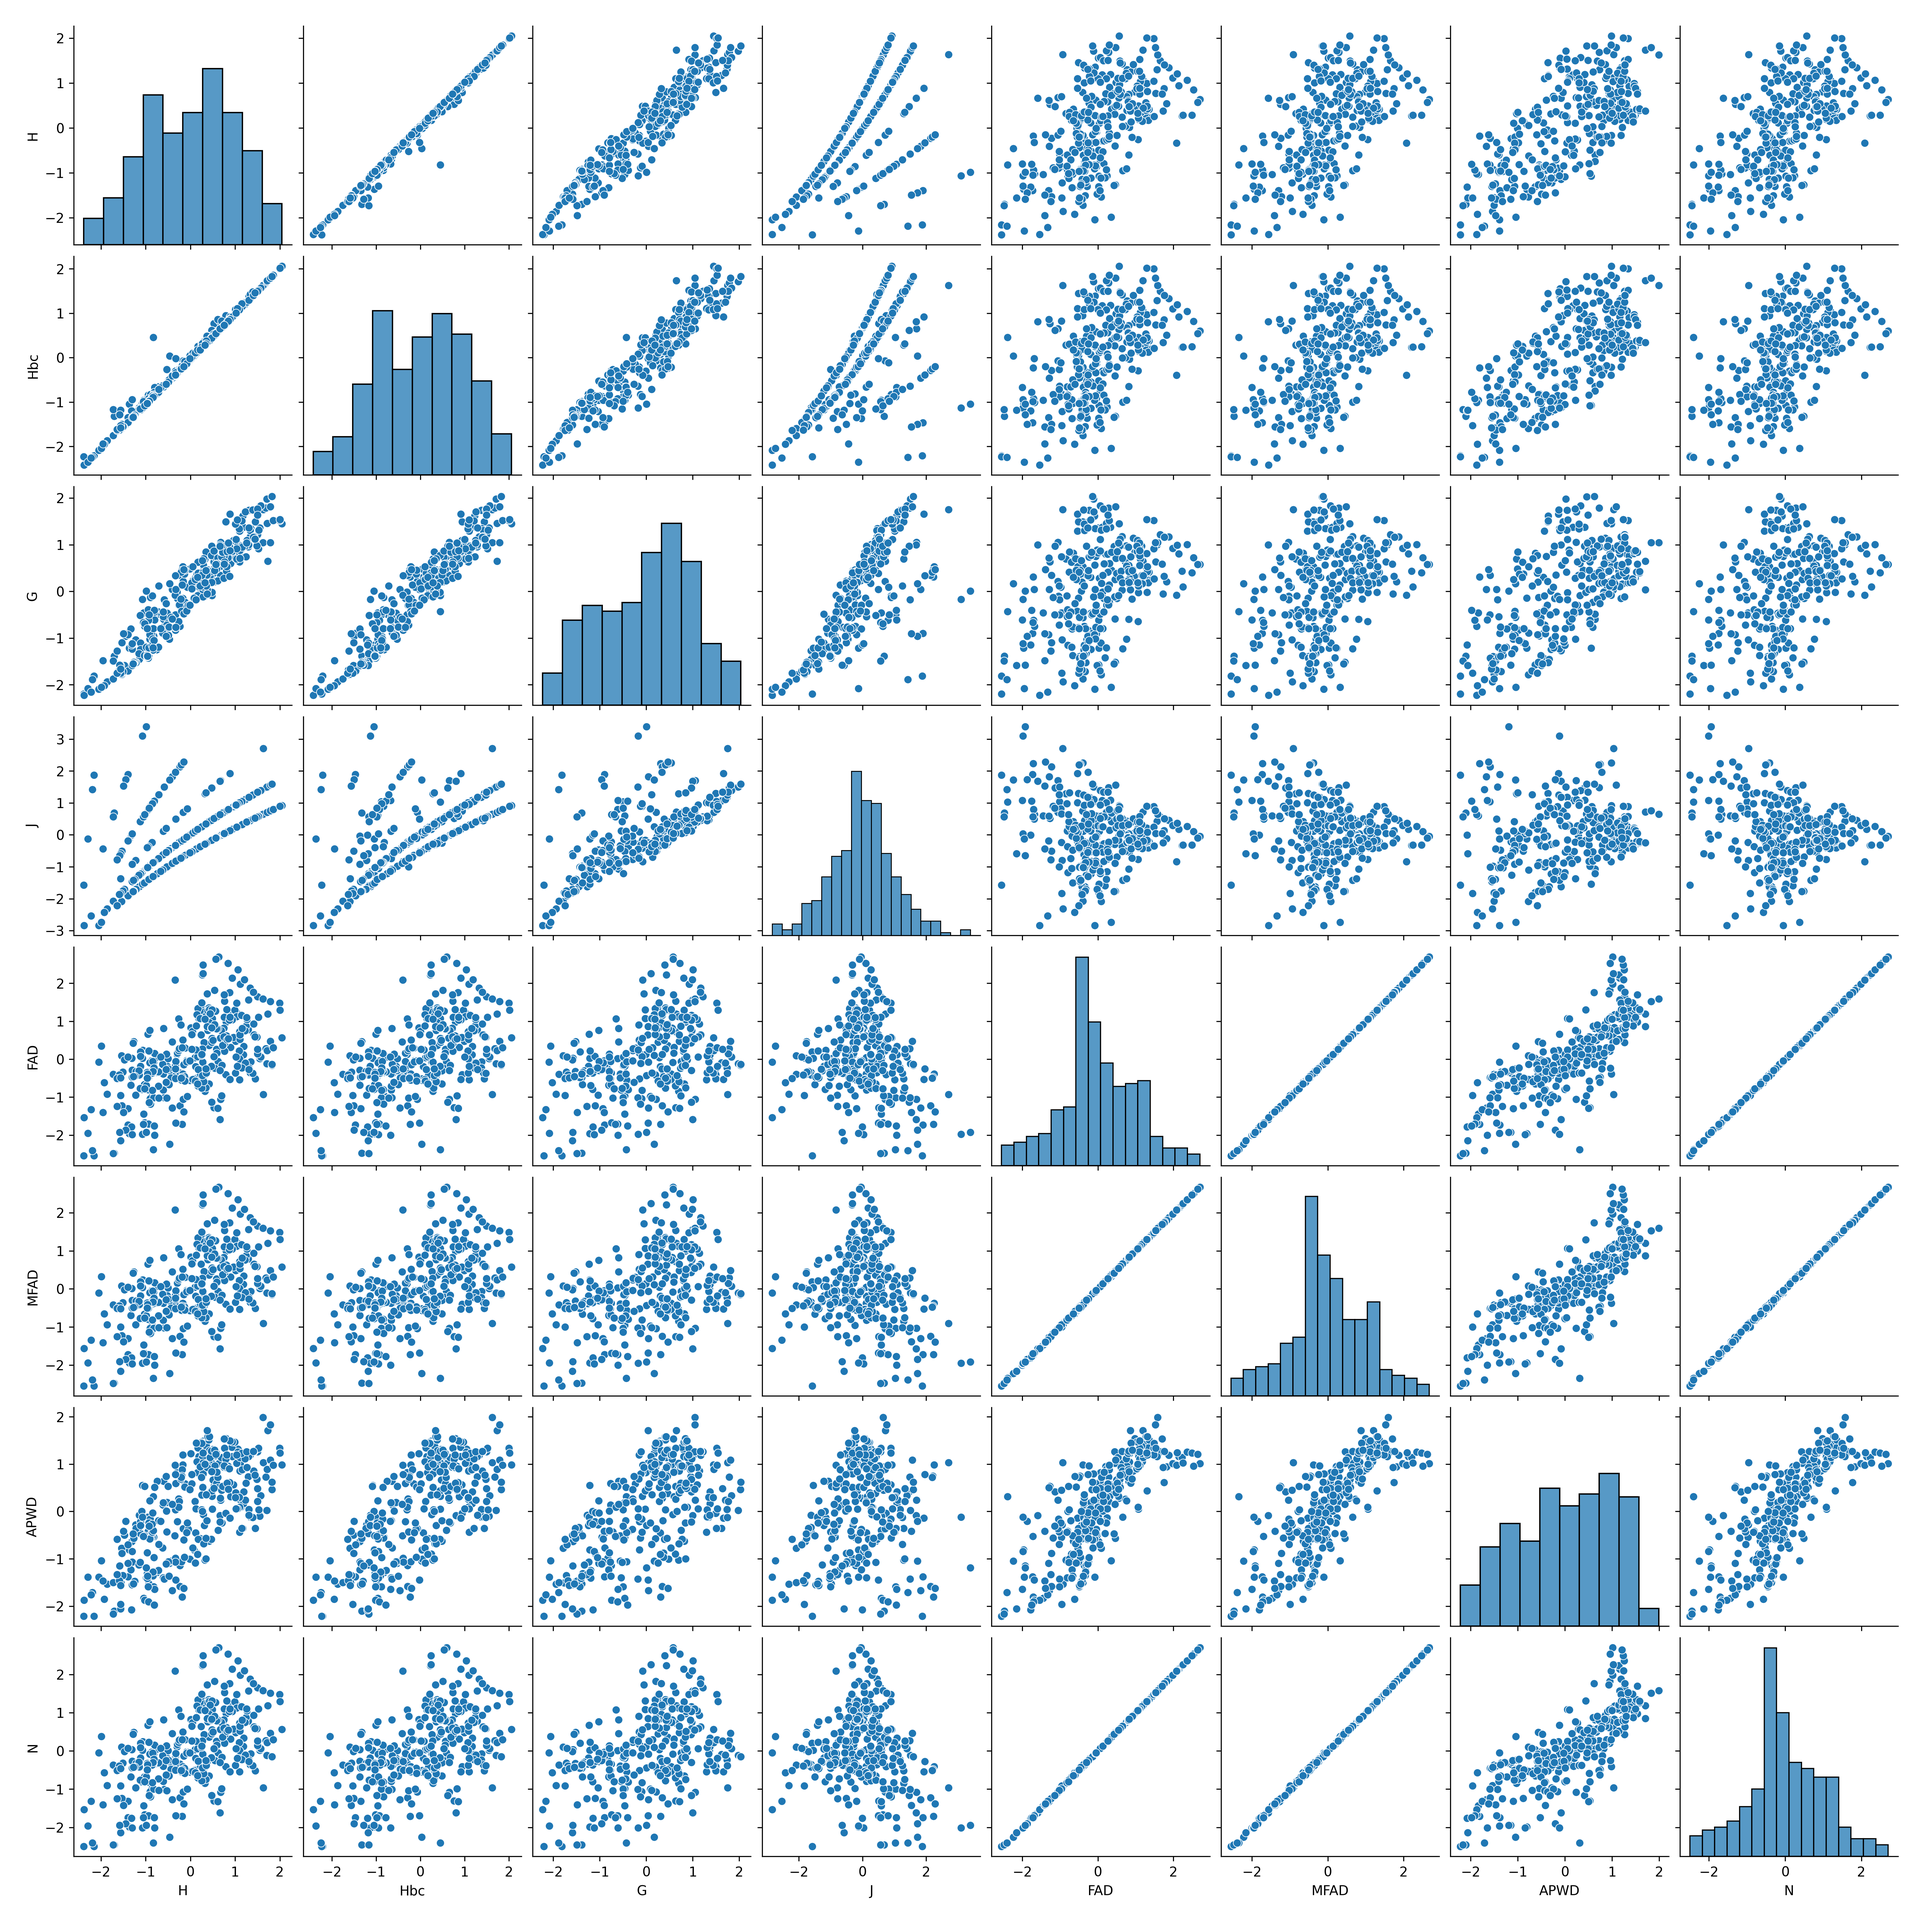
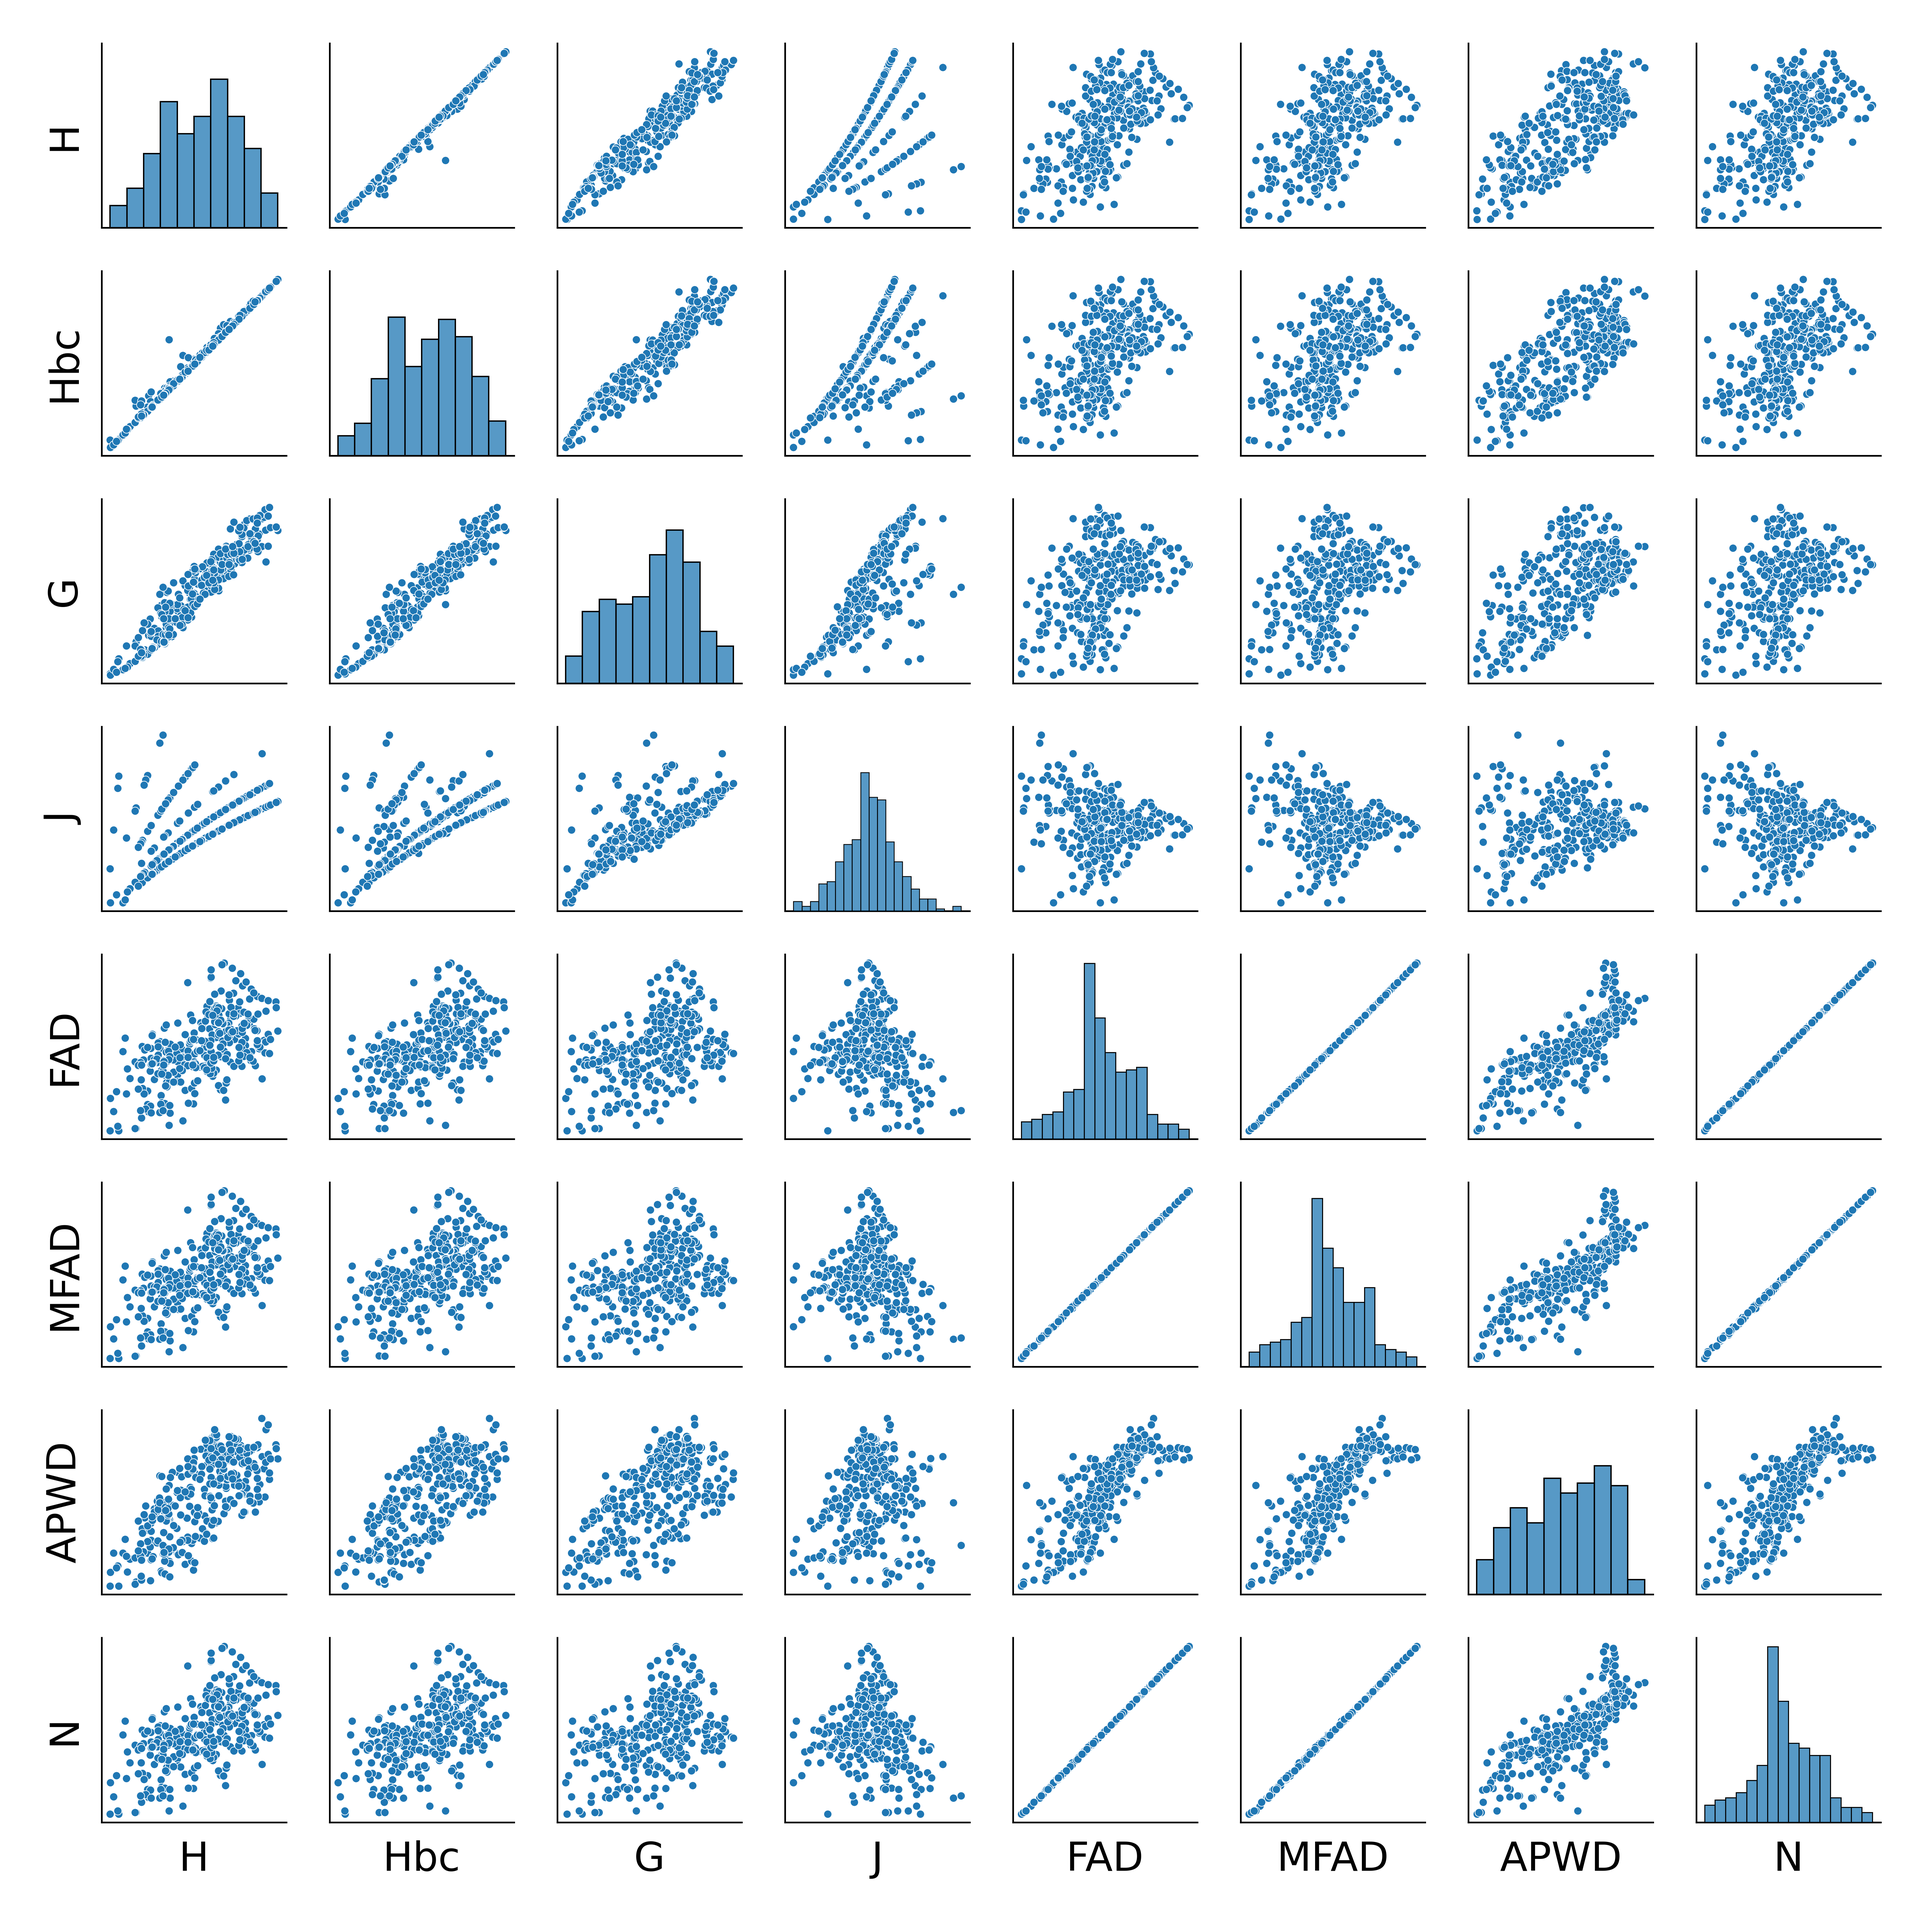
Improve supplementary material format

diff --git a/taxonomic_summary/image_manipulation.py b/taxonomic_summary/image_manipulation.py
@@ -1,0 +1,88 @@
+from PIL import Image, ImageDraw, ImageFont
+
+
+def combine_images_side_by_side(
+        image1_path,
+        image2_path,
+        output_path="combined_image.jpg",
+        separation=10,
+        text1=None,
+        text2=None,
+        font_path=None,
+        font_size=20,
+        side_by_side=True
+):
+    # Open the two images
+    img1 = Image.open(image1_path)
+    img2 = Image.open(image2_path)
+
+    # Get dimensions for each image
+    width1, height1 = img1.size
+    width2, height2 = img2.size
+
+    # Prepare for text height if any text is provided
+    text_height = 0
+    if text1 or text2:
+        if font_path:
+            font = ImageFont.truetype(font_path, font_size)
+        else:
+            font = ImageFont.load_default(font_size)
+
+        # Estimate the height of the text
+        text_height = font.getbbox("A")[3] + 10  # Add padding below text
+
+
+    # Set the height to the maximum height of the two images + text height if applicable
+    if side_by_side:
+        combined_height = max(height1, height2) + text_height
+        combined_width = width1 + width2 + separation
+
+    else:
+        combined_height = height1 + height2 + 2*text_height + separation
+        combined_width = max(width1, width2)
+
+    # Create a new blank image with the combined dimensions
+    combined_image = Image.new("RGB", (combined_width, combined_height), color=(255, 255, 255))
+
+    # Paste each image onto the new image
+    combined_image.paste(img1, (0, 0))
+    if side_by_side:
+        combined_image.paste(img2, (width1+separation, 0))
+    else:
+        combined_image.paste(img2, (0, height1+ separation))
+
+
+
+    # Draw the text under each image if provided
+    draw = ImageDraw.Draw(combined_image)
+    if text1:
+        text_width = font.getbbox(text1)[2]  # Get the width of the text
+        text_x = width1 // 2 - text_width // 2
+        draw.text((text_x, height1 + 5), text1, fill="black", font=font)
+    if text2:
+        text_width = font.getbbox(text2)[2]  # Get the width of the text
+        if side_by_side:
+            text_x = width1 + separation + (width2 // 2) - text_width // 2
+            draw.text((text_x, height2 + 5), text2, fill="black", font=font)
+        else:
+            text_x = width1 // 2 - text_width // 2
+            draw.text((text_x, height1 + height2 + separation + 5), text2, fill="black", font=font)
+
+    # Save the combined image
+    combined_image.save(output_path)
+    print(f"Combined image saved as {output_path}")
+
+if __name__ == '__main__':
+
+    # Example usage:
+    combine_images_side_by_side(
+        "outputs/species_in_study_native_dist.jpg",
+        "outputs/species_in_families_native_dist.jpg",
+        output_path="outputs/species_plots.jpg",
+        separation=160,
+        text1="(a) Species in Study",
+        text2="(b) Species in Gentianales",
+        # font_path="arial.ttf",  # Optional: specify your font path or leave as None for default
+        font_size=160,
+        side_by_side=False
+    )

diff --git a/analysis_of_diversity_in_native_regions/correlations_of_indices.py b/analysis_of_diversity_in_native_regions/correlations_of_indices.py
@@ -13,9 +13,13 @@ import seaborn as sns
 
 def plot_distributions():
     Path(os.path.join('outputs', 'metric_correlations')).mkdir(parents=True, exist_ok=True)
-    sns.pairplot(working_data[METRICS + ['N']])
-    plt.savefig(os.path.join('outputs', 'metric_correlations', 'metric_distributions.png'), dpi=300)
-    plt.close()
+    with sns.plotting_context("notebook",font_scale=2.5):
+        ax = sns.pairplot(working_data[METRICS + ['N']])
+        ax.set(xticklabels=[], yticklabels=[])  # remove the tick labels
+        ax.tick_params(bottom=False, left=False)  # remove the ticks
+        plt.tight_layout()
+        plt.savefig(os.path.join('outputs', 'metric_correlations', 'metric_distributions.png'), dpi=300)
+        plt.close()
 
     sns.pairplot(working_data[RARE_METRICS + ['N', 'GroupSize_Pathways']])
     plt.savefig(os.path.join('outputs', 'metric_correlations', 'rare', 'rare_metric_distributions.png'), dpi=300)

diff --git a/analysis_of_diversity_in_native_regions/analyse_outliers.py b/analysis_of_diversity_in_native_regions/analyse_outliers.py
@@ -312,7 +312,7 @@ def collect_all_highlights():
         region_df['highlight_metrics'].iloc[0] = highlight_metrics_str
 
         lowlight_metrics = [x for x in region_df['lowlight_metrics'].iloc[0]]
-        lowlight_metrics_formatted = sorted([x.replace('_Rare', "'") for x in lowlight_metrics])
+        lowlight_metrics_formatted = sorted([x.replace('_Rare', "*") for x in lowlight_metrics])
         lowlight_metrics_str = ', '.join(lowlight_metrics_formatted)
         region_df['lowlight_metrics'].iloc[0] = lowlight_metrics_str
 
